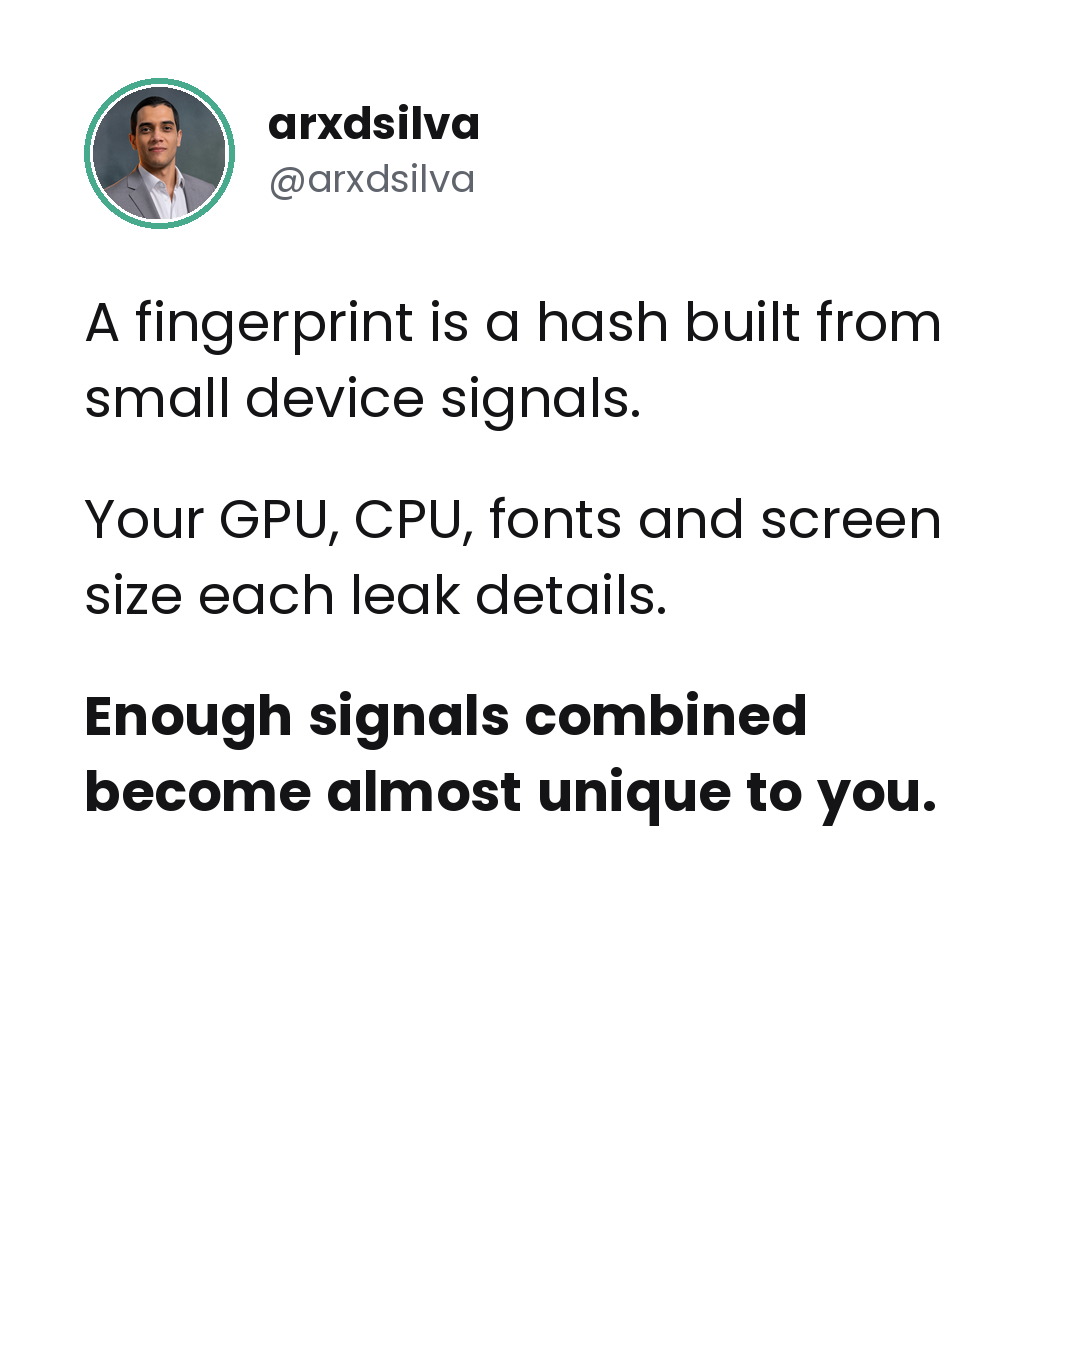
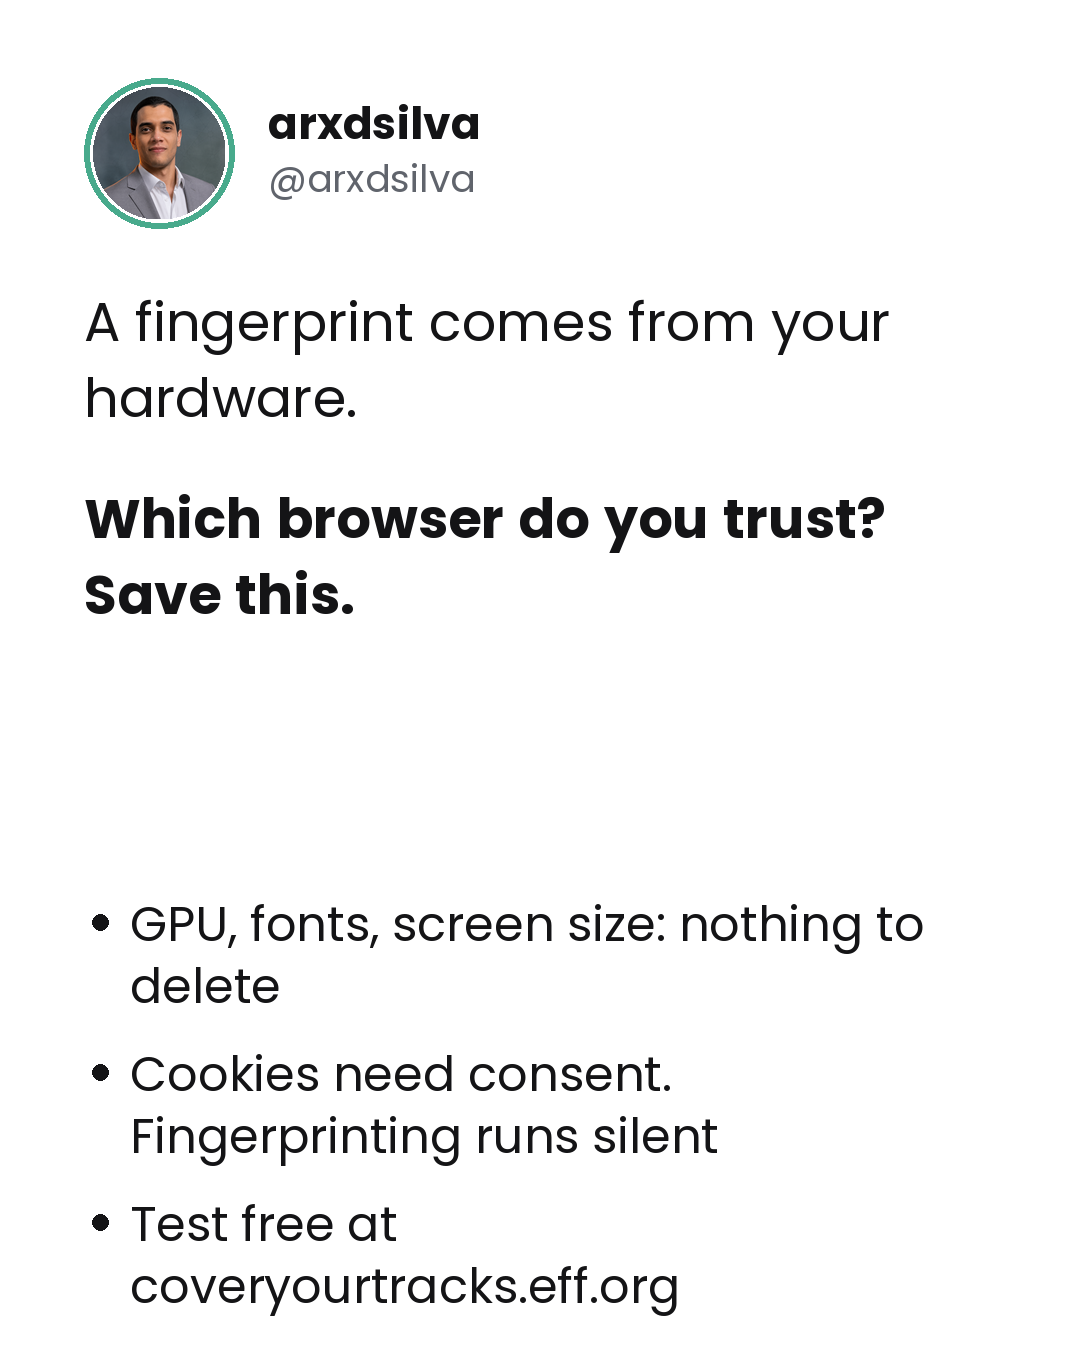
post: 2026-10-12-how-fingerprinting-works (redo as 2-image carousel)
Redo today's carousel as exactly 2 images instead of 8, reusing the
xkcd 936 comic embedded in the source article for slide 1 (cropped to
its most legible row) instead of generating or skipping an image.

Update fetch_image.py to fall back to the first substantial <img> in
the article body when there's no og:image/twitter:image meta tag, and
update CLAUDE.md so future runs use the 2-image format by default:
each type's slide structure is condensed into "slide 1 = hook/image,
slide 2 = everything else as bullets", and image-sourcing now
prioritizes reusing an article image over generating or skipping one.

Claude-Session: https://claude.ai/code/session_01TXVHnpevcCMvpTT8gdQmRY

diff --git a/fetch_image.py b/fetch_image.py
@@ -1,7 +1,14 @@
 #!/usr/bin/env python3
 """
-Fetch an article's og:image (or twitter:image) and save it locally, for the
+Fetch an image to reuse from an article and save it locally, for the
 "image" slide option in carousel.py.
+
+Tries, in priority order:
+1. og:image / twitter:image meta tags.
+2. The first substantial <img> in the page body (skips tiny icons, logos,
+   avatars, and data: URIs) — this is what to reach for when the article
+   itself embeds a diagram, screenshot or illustration but has no social
+   preview image set.
 
 Usage: python3 fetch_image.py <article_url> <out_path.jpg>
 
@@ -10,12 +17,27 @@ Prints the saved path on success, or NO_IMAGE_FOUND / FETCH_FAILED on failure
 """
 import re
 import sys
+import urllib.parse
 import urllib.request
 
 META_RE = re.compile(
     r'<meta[^>]+(?:property|name)=["\'](?:og:image|twitter:image)["\'][^>]+content=["\']([^"\']+)["\']',
     re.IGNORECASE,
 )
+IMG_RE = re.compile(r'<img[^>]+src=["\']([^"\']+)["\'][^>]*>', re.IGNORECASE)
+SKIP_HINTS = ("icon", "logo", "avatar", "favicon", "sprite", "badge", "button")
+
+
+def find_body_image(html, base_url):
+    for match in IMG_RE.finditer(html):
+        src = match.group(1)
+        if src.startswith("data:"):
+            continue
+        low = src.lower()
+        if any(hint in low for hint in SKIP_HINTS):
+            continue
+        return urllib.parse.urljoin(base_url, src)
+    return None
 
 
 def main(url, out_path):
@@ -28,10 +50,13 @@ def main(url, out_path):
         return 1
 
     match = META_RE.search(html)
-    if not match:
-        print("NO_IMAGE_FOUND")
-        return 1
-    image_url = match.group(1)
+    if match:
+        image_url = match.group(1)
+    else:
+        image_url = find_body_image(html, url)
+        if not image_url:
+            print("NO_IMAGE_FOUND")
+            return 1
 
     img_req = urllib.request.Request(image_url, headers={"User-Agent": "Mozilla/5.0 (hn-carousels)"})
     try:

diff --git a/CLAUDE.md b/CLAUDE.md
@@ -20,15 +20,9 @@ A new event, tool or incident from HN, connected to an old, well-known engineeri
 
 - **Fits:** postmortems, outages, "how we built X" write-ups, migrations, a new tool that hits a classic limit (consistency, caching, retries, queues, N+1, clock skew, backpressure, cache invalidation, idempotency).
 - **Hook formula (slide 1, paragraph 1):** `**[New thing] just rediscovered [old problem].**` or `**[Company] hit the oldest bug in [area].**`
-- **Slide structure:**
-  1. Hook + one-line what happened + HN signal.
-  2. What happened, in plain terms (from the article only).
-  3. Name the old problem and say where it has shown up before.
-  4. Why it happens (the mechanism, one idea per slide; 1–2 slides).
-  5. The known fixes or patterns (bullets work well here).
-  6. Counterpoint from the thread.
-  7. The rule to take away, in bold.
-  8. Closing question + save.
+- **Slide structure** (2 slides):
+  1. Hook + what happened, in plain terms (from the article only), paired with an image when one exists.
+  2. The old problem this rediscovers, the fix or pattern (bullets), a counterpoint from the thread if there's a real one, and the rule to take away in bold, then the closing question + save.
 
 ### Type B: Explainer ("How X works" / "X vs Y")
 
@@ -36,14 +30,9 @@ When the HN story is about a technology, explain the technology itself. The stor
 
 - **Fits:** a new release or protocol, a deep-dive article, a technology the thread is confused or arguing about, a "why is X fast/slow" post.
 - **Hook formula:** a plain title, no clever wording. One of: `**How [X] works**`, `**[X] vs [Y]**`, `**[N] things to know before you use [X]**`, `**If you want to get good at [X], learn these [N] ideas**`. Paragraph 2 says in one sentence why it matters right now (the HN story).
-- **Slide structure:**
-  1. Title hook + why now + HN signal.
-  2. The one-sentence definition.
-  3. How it works, step by step (2–4 slides; bullets for steps, image or panel for the key moment).
-  4. For "X vs Y": a side-by-side comparison slide using bullets, then "when to pick which".
-  5. The common mistake or misconception (counterpoint from the thread goes here).
-  6. Cheat-sheet summary slide: 3–4 bullets someone would screenshot.
-  7. Closing question + save.
+- **Slide structure** (2 slides):
+  1. Title hook + the one-sentence why-now, paired with an image when one exists (a panel if not).
+  2. The cheat-sheet: 3–4 bullets that explain how it works, compare X vs Y, or name the common mistake, whichever matters most for this story, then the closing question + save.
 
 ### Type C: Hot take (an opinion on what HN is arguing about)
 
@@ -51,14 +40,9 @@ When the thread is a debate, take a clear side. Reference: Gergely Orosz on DHH 
 
 - **Fits:** threads where comments are split, career and practice debates, "AI will replace X" claims, controversial engineering opinions, big-name statements.
 - **Hook formula:** `**[Person/company] says [claim]. [I think they're right / half right / wrong].**` or `**Unpopular opinion: [claim].**` The stance must be one sentence.
-- **Slide structure** (shorter: 6–8 slides):
-  1. Hook with the stance + HN signal.
-  2. The claim, fairly stated and attributed.
-  3. Where it's right.
-  4. Where it breaks (the take; 1–2 slides).
-  5. The strongest opposing comment from the thread, quoted and attributed.
-  6. What to actually do on Monday.
-  7. A question that asks people to pick a side + save.
+- **Slide structure** (2 slides):
+  1. Hook with the stance, the claim fairly stated and attributed, paired with an image when one exists.
+  2. Where it's right, where it breaks (the take), the strongest opposing comment from the thread (bullets or a short attributed line), and a question that asks people to pick a side + save.
 - **The stance is a draft.** Always add it to `REVIEW.md` as a checkbox ("Stance: I think X. Do you agree?") so the owner confirms or flips it before it goes out.
 
 ## Picking the type for the day
@@ -89,14 +73,14 @@ Each posting day has a default type, so the feed gets a mix every week:
 2. **Pick the type and the story together.** Start from the day's default type (see "Picking the type for the day"). Among the top 10, choose the story that best fits that type and that a working developer can act on or form an opinion about: engineering practice, tools, careers, security incidents, AI in development, architecture, performance. Skip politics, non-tech stories, and plain product launches unless there's a clear practical angle. Break ties by comment count. Before writing, state the angle in one line: for A, "[new thing] rediscovered [old problem]"; for B, the exact title; for C, the one-sentence stance. If you can't write that line, the story doesn't fit the type; try another story or type.
 3. **Research it.** Run `python3 hn_brief.py story <id>` for the article text and the top comments with their first reply. Note the strongest counterpoints from commenters. For type C, also note the strongest comment on each side. Fetch the article URL directly only if the script prints `ARTICLE: could not fetch`.
 4. **Write the carousel** as `posts/YYYY-MM-DD-short-slug/spec.json` (YYYY-MM-DD is the posting date), using `posts/2026-09-23-dont-read-what-you-didnt-write/spec.json` for the `profile` block (keep it exactly as in that file), the slide structure for the chosen type above, and the examples below for the slide text format. Add the top-level `"type"` field.
-   - 6 to 10 slides (type C: 6 to 8). Slide 1 is the hook, written with the type's hook formula. **It's the highest-leverage slide** — most people decide whether to keep swiping right there — so make it hit hardest: the bold title, claim or stance as paragraph 1, every paragraph a single short sentence, paired with an image. The HN signal (rank, comments) goes in slide 1 as a short supporting line, never as the hook itself. The hook names the lesson or the stance, not the news event.
-   - The last slide asks one specific question and asks people to save the post. Match the question to the type: A, "Where have you hit [old problem]?"; B, "What would you add?" or "Which do you use, X or Y?"; C, a question that asks them to pick a side.
-   - One idea per slide. Each slide's `text` is **2 or 3 short, direct paragraphs**, separated by a blank line (`\n\n` in the JSON string). Keep every paragraph to **one short sentence, roughly 8 to 20 words**. No compound sentences, no padding, no throat-clearing — if a paragraph needs "and" or a comma to hold two ideas, split it or cut one.
-   - Add an `"image"` to most slides (a photo from the article, or clearly related to the topic — see "Getting an image" below), whether the slide has 2 or 3 paragraphs; this is the default, reference-matched format. Use a `"bullets"` list of 2 to 4 short, direct points instead of an image only on a slide where there's no good image, and on the type B steps, comparison and cheat-sheet slides and the type A fixes slide, where bullets are the point. Don't add both `image` and `bullets` to the same slide.
+   - **Exactly 2 images.** Slide 1 is the hook, written with the type's hook formula. **It's the highest-leverage slide** — most people decide whether to keep swiping right there — so make it hit hardest: the bold title, claim or stance as paragraph 1, every paragraph a single short sentence, paired with an image whenever one is available (see "Getting an image" below — reusing an image from the article is the priority, before falling back to a panel). The HN signal (rank, comments) goes in slide 1 as a short supporting line, never as the hook itself. The hook names the lesson or the stance, not the news event.
+   - Slide 2 carries everything else the type's slide structure calls for, compressed: the mechanism, the comparison, the counterpoint, the cheat-sheet, whatever matters most for this story. It closes with one specific question and asks people to save the post. Match the question to the type: A, "Where have you hit [old problem]?"; B, "What would you add?" or "Which do you use, X or Y?"; C, a question that asks them to pick a side. Because everything lands on one slide, use `bullets` to carry the density (2 to 4 short, direct points — test render and cut a bullet if it overflows, rather than shrinking text past readability) and keep the `text` paragraphs very short.
+   - Each slide's `text` is **1 to 3 short, direct paragraphs**, separated by a blank line (`\n\n` in the JSON string). Keep every paragraph to **one short sentence, roughly 8 to 20 words**. No compound sentences, no padding, no throat-clearing — if a paragraph needs "and" or a comma to hold two ideas, split it or cut one. Slide 2's `text` should usually be on the shorter end of that range, since the bullets do most of the work.
+   - Add an `"image"` to slide 1 whenever one is available; this is the default, reference-matched format for the hook slide. Use a `"bullets"` list of 2 to 4 short, direct points on slide 1 only when no image exists; slide 2 is almost always `bullets` (it's the cheat-sheet). Don't add both `image` and `bullets` to the same slide.
    - Bold (`**like this**`) can be used more than once per slide where it helps a reader scan, not capped at one. It can wrap a short phrase inside a paragraph, or the whole paragraph when the paragraph itself is the punchline (e.g. a bold hook as paragraph 1, or a bold one-line takeaway as the last paragraph).
-   - A `panel` (the dark number/quote callout) is still available for variety, at most 3 slides, if you want a big stat or line to stand on its own instead of an image; keep panel text very short (a title, a number with a caption, or a short line). It works well for the type C opposing-comment slide and the type A "old problem" name. A slide takes at most one of `panel`, `bullets`, `image`.
+   - A `panel` (the dark number/quote callout) is the fallback for slide 1 when no image exists, or an alternative to bullets on slide 2 if you want one big stat or line to stand on its own; keep panel text very short (a title, a number with a caption, or a short line). A slide takes at most one of `panel`, `bullets`, `image`.
    - Facts, numbers and quotes come only from the article or the thread, attributed to their author. Never invent a statistic, source, or detail. For type A, any claim about where the old problem showed up before must be general engineering knowledge or come from the thread; never invent a specific incident.
-   - The take is practical: what this means for the reader's work, what to do differently. Include at least one counterpoint from the thread when there's a real one.
+   - The take is practical: what this means for the reader's work, what to do differently. Include at least one counterpoint from the thread when there's a real one and there's room for it on slide 2.
    - First-person claims about the owner's own experience ("in my team we...") must not be invented. Keep the voice first person, but any sentence that states something about his personal experience goes on the REVIEW.md checklist, and so does the stance in a type C post.
 
    Slide examples:
@@ -112,7 +96,7 @@ Each posting day has a default type, so the feed gets a mix every week:
    {"text": "One short sentence.\n\nAnother short sentence.\n\nA closing short sentence."}
    ```
 
-   **Getting an image.** Run `python3 fetch_image.py <article_url> posts/<folder>/assets/<name>.jpg` to pull the article's `og:image`. It prints the saved path on success, or `NO_IMAGE_FOUND` / `FETCH_FAILED` on failure — use `bullets` on that slide instead when it fails. Image paths in `spec.json` are relative to the repo root, same as `profile.avatar`. An `image` slide renders full-bleed: no side margin, flush to the bottom edge of the slide, like a photo card under the text, not inset like the `panel`/`bullets` box.
+   **Getting an image.** Reusing an image from the article is the priority — generating or sourcing one from elsewhere is a last resort. Run `python3 fetch_image.py <article_url> posts/<folder>/assets/<name>.jpg`. It tries the article's `og:image`/`twitter:image` meta tags first, then falls back to the first substantial `<img>` in the page body (skipping icons, logos and avatars) when no meta image is set — so it reaches for a diagram, screenshot or illustration the article actually embeds, not just its social-preview image. It prints the saved path on success, or `NO_IMAGE_FOUND` / `FETCH_FAILED` on failure — use `bullets` or a `panel` on slide 1 instead when it fails. Open whatever it saves: an image that doesn't crop well into a 1080×460 full-bleed strip (a tall screenshot, a dense multi-panel comic) usually needs a manual crop first — pick the single most legible, self-contained region (one panel, one row, the key screenshot area) rather than the whole source, save that as the asset, and only then reference it from `spec.json`; letting the renderer center-crop a tall or busy image automatically tends to cut through the content that matters. Image paths in `spec.json` are relative to the repo root, same as `profile.avatar`. An `image` slide renders full-bleed: no side margin, flush to the bottom edge of the slide, like a photo card under the text, not inset like the `panel`/`bullets` box. If the reused image isn't the article author's own work (a comic, a chart from elsewhere, a screenshot of another site), credit its real source and license in `caption.txt`, `linkedin.txt` and `sources.md`, and flag it in `REVIEW.md` for a quick look before posting.
 5. **Humanize.** Run the humanizer skill (`.claude/skills/humanizer`) in embedded mode over all slide text and the caption. Apply the edits to `spec.json`. Keep the type's hook formula intact; the humanizer can change wording, not the shape of the title.
 6. **Render.** Run `python3 carousel.py posts/<folder>/spec.json posts/<folder>/`. Open the PNGs and check that no text overflows and each slide reads well. Fix and re-render if needed.
 7. **Write the other files** in the same folder:
@@ -160,7 +144,7 @@ REPLY:
 - **Parts.** Write the post as 1 to 6 parts separated by a line containing only `---`. Every part must be 280 characters or fewer, and part 1 must stand alone as a complete post. The owner can paste the parts as one long post or as a thread.
 - **First line.** The first line of part 1 is the hook and follows the type's hook formula from "The three post types". On X it should be blunter and shorter than on LinkedIn.
 - **Type A (Rediscovered), 3 to 6 parts.** Open with the parallel, for example `The last time [X] happened was [era/system]. We're about to relearn the same lesson.` or `[New thing] just rediscovered [old problem].` Then what happened (from the article), the old problem and why it happens, the fix or rule in one bold-free plain sentence, and one counterpoint from the thread. `IMAGES:` slide 1.
-- **Type B (Explainer), 1 to 3 parts.** Part 1 is just the title (`How X works`, `X vs Y`) plus one line on why it matters now. The images do the explaining. `IMAGES:` up to 4 slides: the cheat-sheet slide first, then the 1 to 3 slides that best show how it works. Optional part 2: the numbered points in `N Term: one-line explanation` form, kept under 280 characters.
+- **Type B (Explainer), 1 to 3 parts.** Part 1 is just the title (`How X works`, `X vs Y`) plus one line on why it matters now. The images do the explaining. `IMAGES:` both slides, the cheat-sheet (slide 2) first, then the hook image (slide 1). Optional part 2: the numbered points in `N Term: one-line explanation` form, kept under 280 characters.
 - **Type C (Hot take), 1 to 2 parts.** Open with `Hot take:` or the stance itself in one sentence. Then where the claim is right, where it breaks, and a closing question that asks people to pick a side. Keep the whole thing short; this type is built for replies. `IMAGES:` none, or slide 1 if there's no quote target.
 - **Voice.** First person, plain, direct. No hashtags, no emojis, no "🧵", no "A thread:". No em dashes. The same rule as everywhere else applies: never invent the owner's personal experience. Any first-person experience claim or stance goes on `REVIEW.md`.
 - **Sources.** Name the article's author and site in the body when you cite something ("per <author> at <site>"). Facts, numbers and quotes come only from the article or the HN thread.

diff --git a/posts/2026-10-12-how-fingerprinting-works/REVIEW.md b/posts/2026-10-12-how-fingerprinting-works/REVIEW.md
@@ -1,6 +1,5 @@
 # Review checklist — 2026-10-12-how-fingerprinting-works
 
-- [ ] Number to double-check: "60% of Americans can be identified by ZIP code, birth date and sex alone" — stated in the article as a general fact about entropy, not attributed to a specific study there. Worth confirming the figure before it goes out as a standalone stat.
+- [ ] Slide 1's image is xkcd #936 ("Password Strength") by Randall Munroe, cropped from the version embedded in royfish's article. It's CC BY-NC 2.5, not royfish's own work — credited as "Chart: xkcd.com/936 by Randall Munroe (CC BY-NC 2.5)" in caption.txt and linkedin.txt. Worth a quick look before posting, since it's third-party IP rather than the article's own image.
 - [ ] No first-person claims about your own experience in this post (type B, no "my team" statements) — confirm there's nothing to flag.
-- [ ] Slide 6 (privacy extensions making you rarer) paraphrases a discussion thread (helterskelter2/Telaneo exchange) rather than quoting directly — check the framing reads fairly.
 - [ ] x_extra.txt stance (type C, QGIS post): "Half right" on QGIS's AI-contribution ban — do you agree with this framing, or want it flipped/adjusted?

diff --git a/posts/2026-10-12-how-fingerprinting-works/sources.md b/posts/2026-10-12-how-fingerprinting-works/sources.md
@@ -3,3 +3,4 @@ Angle: How browser fingerprinting works
 
 - HN thread: https://news.ycombinator.com/item?id=50048642 — 494 points, 242 comments, rank #5 on the 2026-10-12 front page.
 - Article: [Fingerprints are the new cookies](https://royfish.dev/fingerprints-are-the-new-cookies) by royfish (royfish.dev).
+- Slide 1 image: cropped from [xkcd #936, "Password Strength"](https://xkcd.com/936/) by Randall Munroe, embedded in the article and reused from there. Licensed CC BY-NC 2.5; credited in caption.txt and linkedin.txt.
